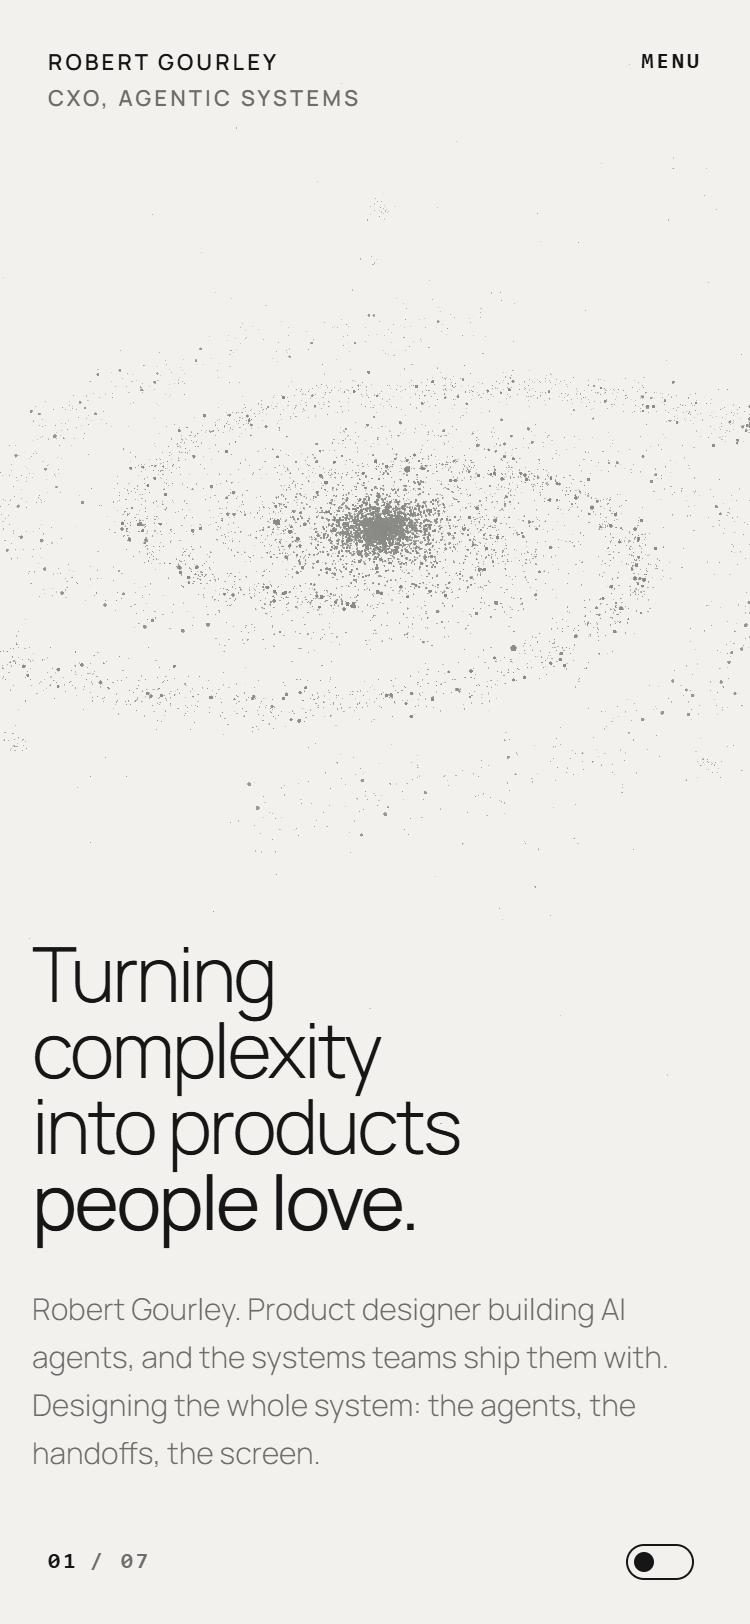
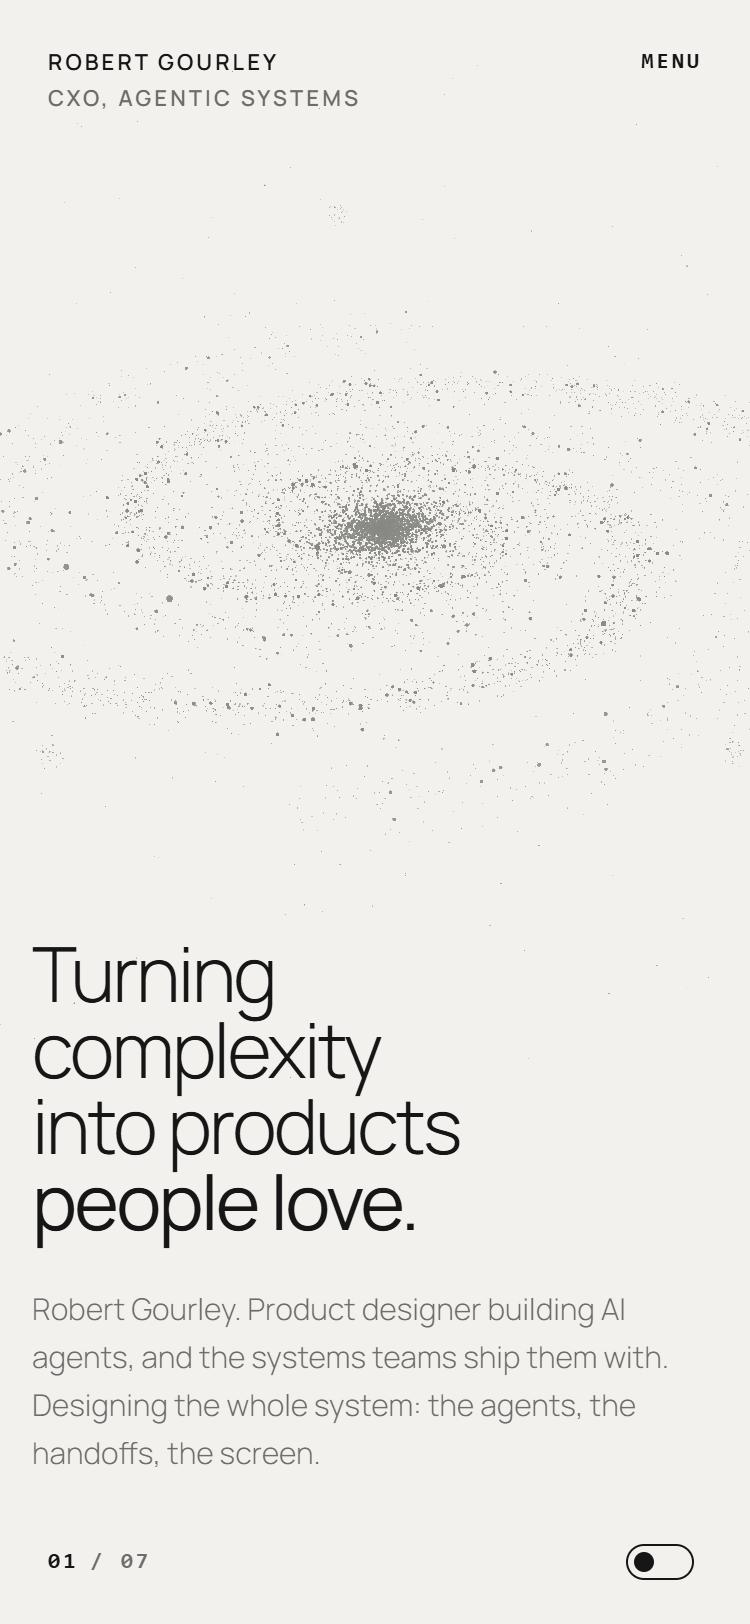
Home on a phone: the ClawStreet scene centred and lifted clear of the words
The race now sits centred on a phone, its lane ends and markers well inside the right edge, and a step higher, so at the steepest point of its turn the lane slabs keep a clear gap above the words while the top labels stay below the header zone. The Hivemind callouts were already held inside the screen by the label helper; measured over 25 seconds at 375 wide they stay between 8 and 367 px. Fresh shots of the hero, the Hivemind line and the ClawStreet line at 375x812.

diff --git a/lib/bloom-field.js b/lib/bloom-field.js
@@ -487,7 +487,7 @@ export function mountField(host, root) {
   // the narrow layout stacks the figure over the text: each figure centred in the upper two thirds of the screen and scaled to about
   // nine tenths of the width, the wide ones running to the edges, [x, y, scale]; the point keeps the desktop's aim at the full stop,
   // so it is left at full size
-  var NARROW = { hero:[0,1.55,0.55], terrain:[-0.3,1.05,0.52], grid:[0,1.05,0.46], chart:[0,0.7,0.66], claw:[0.5,0.5,0.58], proxy:[-0.3,1.0,0.8], scatter:[0,1.6,0.6], point:[0,1.6,1], hive:[0,1.6,0.6] };
+  var NARROW = { hero:[0,1.55,0.55], terrain:[-0.3,1.05,0.52], grid:[0,1.05,0.46], chart:[0,0.7,0.66], claw:[-0.35,1.2,0.58], proxy:[-0.3,1.0,0.8], scatter:[0,1.6,0.6], point:[0,1.6,1], hive:[0,1.6,0.6] };
   // the galaxy is seen well toward its side, past three quarters, so it reads as a disk with depth.
   // the terrain and the world map tilt their far edge up and away, like a landscape from an aircraft
   var TILT = { hero:0.46, terrain:0.42, grid:0.42, chart:0.42, claw:0.72, proxy:0.5, scatter:0, point:0, hive:0.15 };
